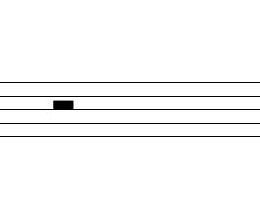
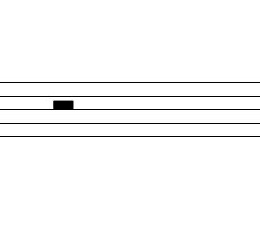
Fixed staff spacing

diff --git a/gui.py b/gui.py
@@ -18,6 +18,7 @@ args = parser.parse_args()
 if args.debug:
     print("DEBUG MODE")
 
+
 def load_resource(filename):
     return os.path.join('resources', filename)
 
@@ -81,7 +82,6 @@ def main():
 
     clock = pygame.time.Clock()
 
-
     card_info = MessageBox("The card info will go here", CARD_NOTIF_COOR, size=26, bkg_color=GREEN, text_color=BLACK)
     extern_card_info = MessageBox("External card info here", EXTERN_CARD_COOR, size=26, bkg_color=RED, text_color=BLACK)
 
@@ -129,7 +129,6 @@ def main():
                 debug_dialogue.change_msg(client_msg)
                 print(client_msg)
 
-
         screen.fill(DARK_BLUE)
 
         if timer.update():
@@ -145,6 +144,7 @@ def main():
 
         pygame.display.update()
         clock.tick(30)
+
 
 if __name__ == "__main__":
     main()

diff --git a/abjad/make_card.py b/abjad/make_card.py
@@ -17,6 +17,7 @@ preamble = r"""#(set-global-staff-size 19.5)
     top-margin = 40
     left-margin = 0
     right-margin = 0
+    top-system-spacing.basic-distance = #20
 }
 
 \layout {
@@ -80,7 +81,7 @@ for func in card_funcs:
         jpeg_im = Image.open(r"C:\Users\bkier\projects\draw(0)\abjad\output_dir\staff.jpg")
 
         width, height = jpeg_im.size
-        im_crop = jpeg_im.crop((10, 247, 270, 470))
+        im_crop = jpeg_im.crop((10, 475, 270, 700))
         im_crop.save(f'../resources/card_{i}.jpg', quality=95)
 
     delete_files = glob.glob(r"C:/Users/bkier/projects/draw(0)/abjad/output_dir/*")
